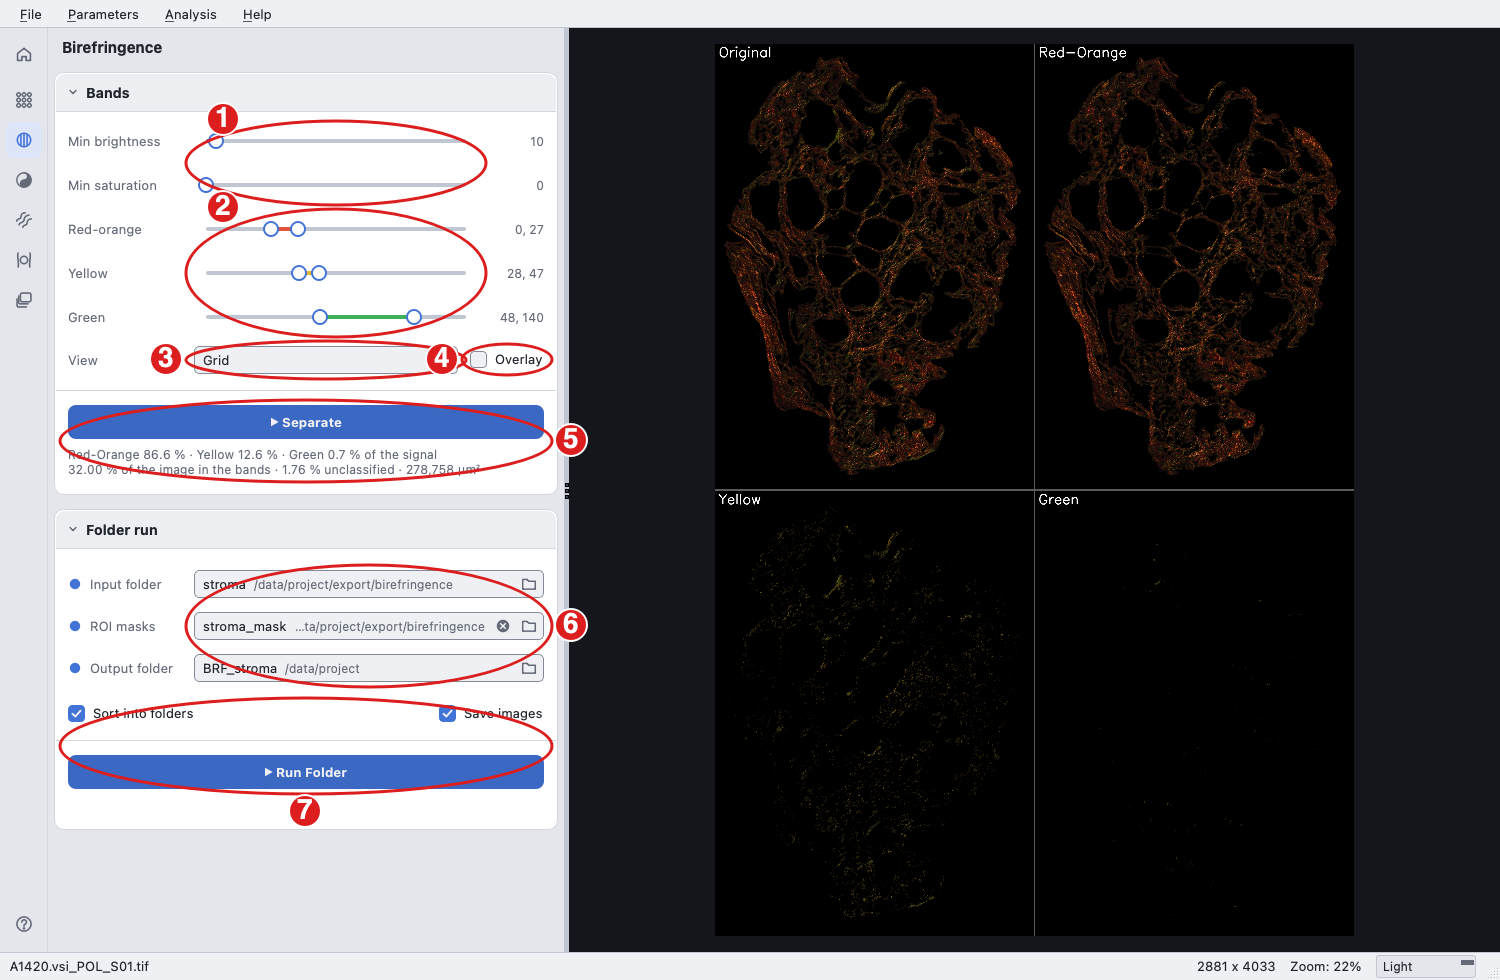
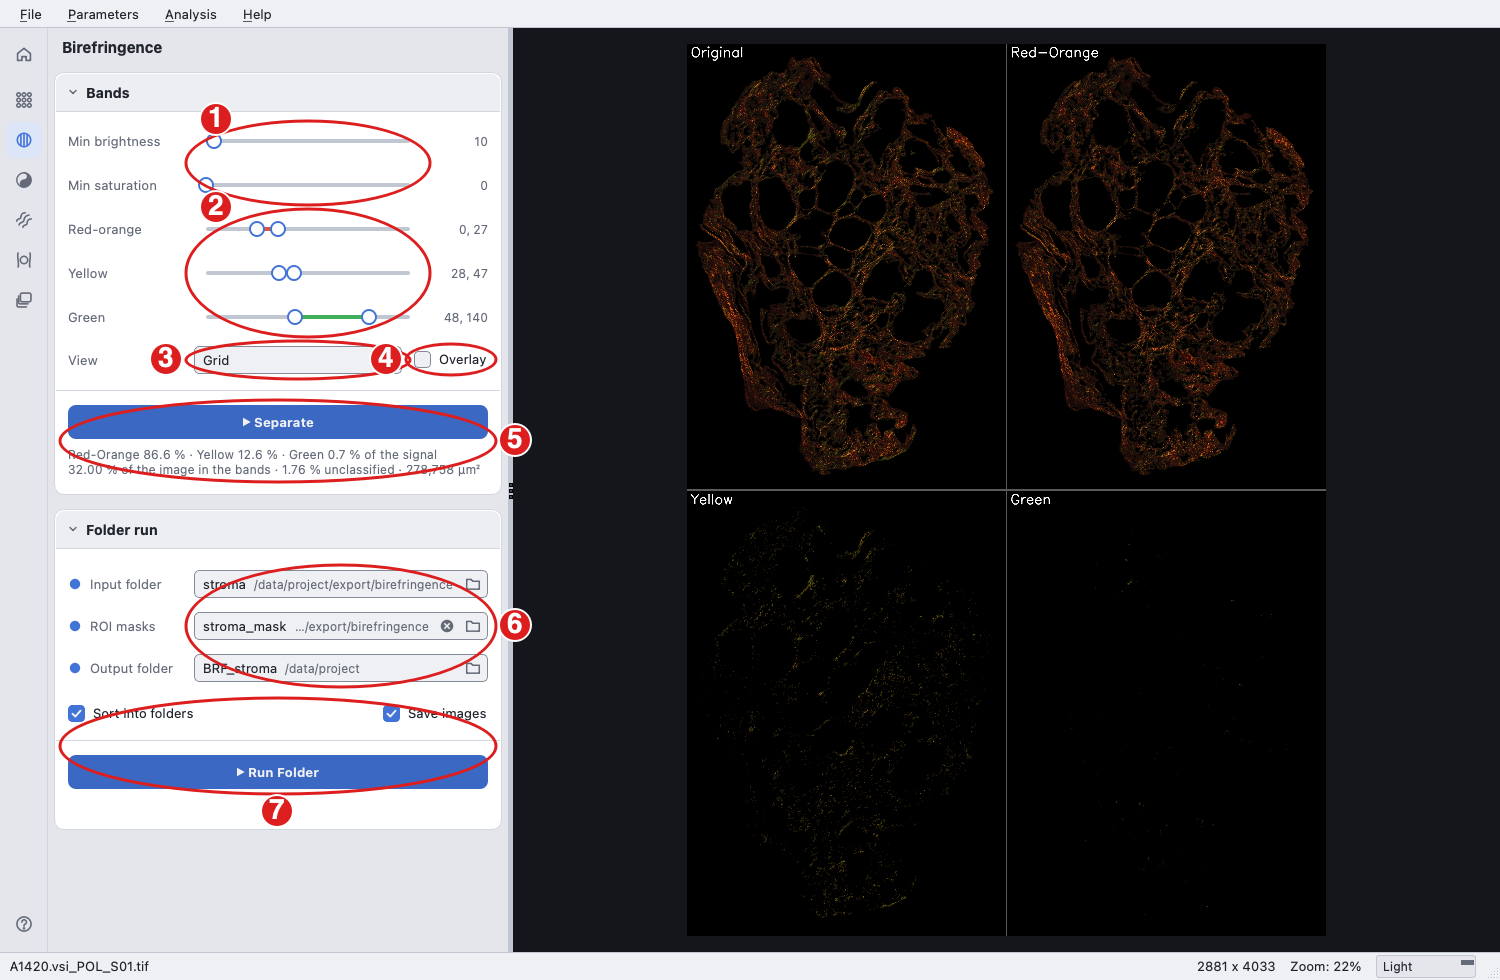
Narrower side panel: spin boxes with stacked up/down arrows
The -/+ steppers took about 50 px of every spin box; small stacked arrows
take 18 px, so the TMA page's paired rows fit a panel of 460 px instead
of 516 px.

diff --git a/cabana/ui.py b/cabana/ui.py
@@ -128,8 +128,8 @@ _ICON_SHAPES = {
                     'stroke-linecap="round" stroke-linejoin="round"/>',
     'chevron-right': '<polyline points="5.5,4 8.5,7 5.5,10" fill="none" stroke="{c}" stroke-width="1.4" '
                      'stroke-linecap="round" stroke-linejoin="round"/>',
-    'minus': '<line x1="3.5" y1="7" x2="10.5" y2="7" stroke="{c}" stroke-width="1.4" stroke-linecap="round"/>',
-    'plus': '<path d="M3.5 7H10.5M7 3.5V10.5" stroke="{c}" stroke-width="1.4" stroke-linecap="round"/>',
+    'chevron-up': '<polyline points="4,8.5 7,5.5 10,8.5" fill="none" stroke="{c}" stroke-width="1.4" '
+                  'stroke-linecap="round" stroke-linejoin="round"/>',
     'folder': '<path d="M1.5 3H5.3L6.8 4.6H12.5V11.5H1.5Z" fill="none" stroke="{c}" stroke-width="1.3" '
               'stroke-linejoin="round"/>',
     'file': '<path d="M3.2 1.5H8.3L11 4.2V12.5H3.2Z M8.3 1.5V4.2H11" fill="none" stroke="{c}" '
@@ -186,18 +186,18 @@ def themed_icon(name: str, color: QColor, color2: QColor = None):
 
 
 def generate_spinner_style():
-    """Spin boxes as inset fields with − and + steppers on the right."""
+    """Spin boxes as inset fields with small stacked up/down arrows on the right."""
     pc = panel_colors()
     field, text = color_to_stylesheet(pc['field']), color_to_stylesheet(COLORS['text'])
-    plus, minus = icon_path('plus', COLORS['text_dim']), icon_path('minus', COLORS['text_dim'])
-    plus_off, minus_off = icon_path('plus', COLORS['text_muted']), icon_path('minus', COLORS['text_muted'])
+    up, down = icon_path('chevron-up', COLORS['text_dim']), icon_path('chevron-down', COLORS['text_dim'])
+    up_off, down_off = icon_path('chevron-up', COLORS['text_muted']), icon_path('chevron-down', COLORS['text_muted'])
     return f"""
         QSpinBox, QDoubleSpinBox {{
             background-color: {field};
             color: {text};
             border: 1px solid {color_to_stylesheet(pc['outline'])};
             border-radius: 5px;
-            padding: 0px 28px 0px 8px;      /* Qt reserves one button width more */
+            padding: 0px 2px 0px 8px;       /* Qt reserves the arrow column itself */
             min-height: 26px;
             font-size: {FONT_SIZES['base']}px;
             selection-background-color: {color_to_stylesheet(COLORS['highlight'])};
@@ -207,25 +207,25 @@ def generate_spinner_style():
         QSpinBox::up-button, QDoubleSpinBox::up-button,
         QSpinBox::down-button, QDoubleSpinBox::down-button {{
             subcontrol-origin: border;
-            subcontrol-position: center right;
-            width: 24px;
-            height: 24px;
+            width: 18px;
+            height: 13px;
             border: none;
-            border-radius: 4px;
             background: transparent;
         }}
-        QSpinBox::up-button, QDoubleSpinBox::up-button {{ right: 1px; }}
-        QSpinBox::down-button, QDoubleSpinBox::down-button {{ right: 25px; }}
+        QSpinBox::up-button, QDoubleSpinBox::up-button {{
+            subcontrol-position: top right; top: 1px; right: 1px; border-top-right-radius: 4px; }}
+        QSpinBox::down-button, QDoubleSpinBox::down-button {{
+            subcontrol-position: bottom right; bottom: 1px; right: 1px; border-bottom-right-radius: 4px; }}
         QSpinBox::up-button:hover, QDoubleSpinBox::up-button:hover,
         QSpinBox::down-button:hover, QDoubleSpinBox::down-button:hover {{
             background: {color_to_stylesheet(COLORS['border'])};
         }}
-        QSpinBox::up-arrow, QDoubleSpinBox::up-arrow {{ image: url({plus}); width: 11px; height: 11px; }}
-        QSpinBox::down-arrow, QDoubleSpinBox::down-arrow {{ image: url({minus}); width: 11px; height: 11px; }}
+        QSpinBox::up-arrow, QDoubleSpinBox::up-arrow {{ image: url({up}); width: 10px; height: 10px; }}
+        QSpinBox::down-arrow, QDoubleSpinBox::down-arrow {{ image: url({down}); width: 10px; height: 10px; }}
         QSpinBox::up-arrow:disabled, QSpinBox::up-arrow:off,
-        QDoubleSpinBox::up-arrow:disabled, QDoubleSpinBox::up-arrow:off {{ image: url({plus_off}); }}
+        QDoubleSpinBox::up-arrow:disabled, QDoubleSpinBox::up-arrow:off {{ image: url({up_off}); }}
         QSpinBox::down-arrow:disabled, QSpinBox::down-arrow:off,
-        QDoubleSpinBox::down-arrow:disabled, QDoubleSpinBox::down-arrow:off {{ image: url({minus_off}); }}
+        QDoubleSpinBox::down-arrow:disabled, QDoubleSpinBox::down-arrow:off {{ image: url({down_off}); }}
         QSpinBox:disabled, QDoubleSpinBox:disabled {{
             color: {color_to_stylesheet(COLORS['text_muted'])};
         }}
@@ -927,7 +927,7 @@ class SectionCard(QFrame):
         row.setSpacing(0)
         left.setFixedWidth(field_width)
         row.addWidget(left)
-        row.addSpacing(12)
+        row.addSpacing(10)
         row.addStretch(1)
         block = QWidget()
         right_width = right_width or field_width

diff --git a/cabana/cabana_gui.py b/cabana/cabana_gui.py
@@ -569,7 +569,7 @@ class MainWindow(QMainWindow):
         return self._ask_tma("Quit Cabana", "Quit Cabana?", "If you quit now:\n- " + "\n- ".join(risks),
                              "Confirm", "Cancel")
 
-    TMA_LABEL_WIDTH = 90      # TMA labels are short: the narrower column leaves room for paired fields
+    TMA_LABEL_WIDTH = 86      # TMA labels are short: the narrower column leaves room for paired fields
     MAP_LOAD_ITEM = "__load_map__"
 
     def _tma_selected_map(self):
@@ -973,7 +973,7 @@ class MainWindow(QMainWindow):
         font = QFont()
         font.setPixelSize(FONT_SIZES['base'])
         second = max(QFontMetrics(font).horizontalAdvance(t) for t in ("Orientation", "Min stain", "Mask shrink"))
-        split = dict(field_width=140, label2_width=second + 4, right_width=120)
+        split = dict(field_width=112, label2_width=second + 2, right_width=100)
 
         # --- Fit -------------------------------------------------------------
         fit = SectionCard("Fit", compact=True)
